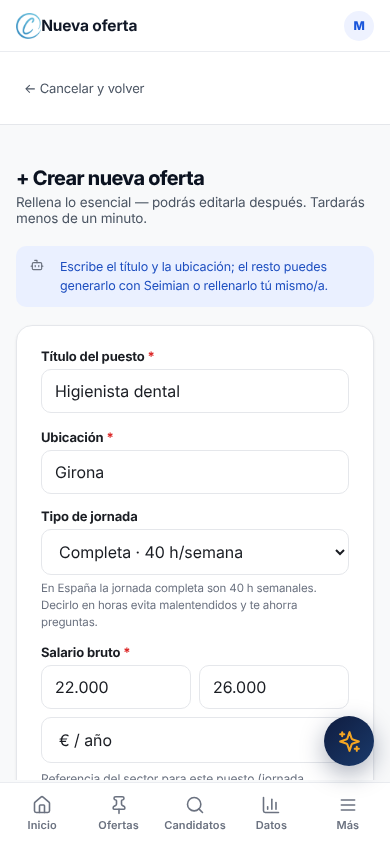
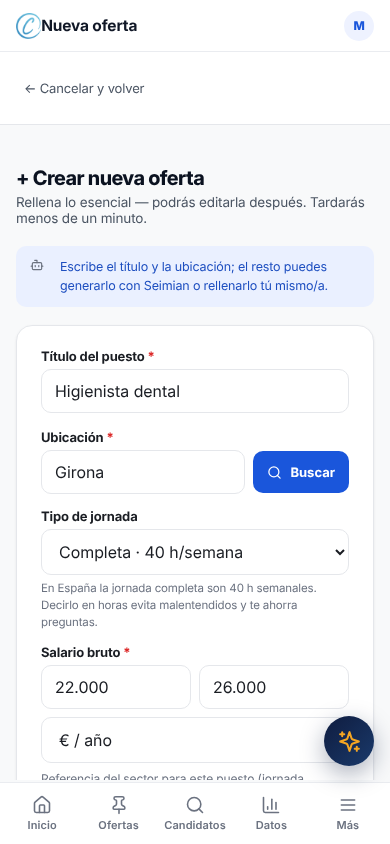
Botón «Buscar» en los tres campos de municipio de la clínica
Dirección de tu clínica (Candidatos), Ubicación (Nueva oferta) y Ciudad
(Mi clínica). «Buscar» y Enter hacen lo mismo: si el municipio existe lo
escriben bien («biure» → «Biure») y lo aplican; si no, avisan debajo con
el mismo texto que el lado profesional.

Arreglo: al cambiar la dirección de la clínica (eligiéndola de la lista,
con Enter o con Buscar) los km de las tarjetas de Candidatos se
recalculan al momento; antes seguían con la dirección anterior.

En Mi clínica, Ciudad ocupa dos tercios de la fila para que quepa el
botón. Prueba nueva en el paso 9, que fallaba antes. 14 capturas
actualizadas (solo cambia el botón).

Claude-Session: https://claude.ai/code/session_01L5qSpH5ECCjMh1xfSpjWDJ

Changed region(s): [[0.6462, 0.5237, 0.8923, 0.5853]]

diff --git a/public/clinica/01f-entrevista-calendario-y-ubicaciones.js b/public/clinica/01f-entrevista-calendario-y-ubicaciones.js
@@ -487,11 +487,29 @@ function initLocationPicker(inputId){
   }
   input.addEventListener('focus', function(){ render(''); dd.style.display='block'; });
   input.addEventListener('input', function(){ render(input.value); dd.style.display='block'; });
+  // Municipio de la clínica o de la oferta: botón «Buscar», como en el lado profesional.
+  // «Buscar» y Enter hacen lo mismo: buscan el municipio (buscarUbicacion).
+  if(soloMuni){
+    const fila = document.createElement('div');
+    fila.style.cssText = 'display:flex;gap:8px;align-items:center;flex:1;min-width:0;';
+    wrap.parentNode.insertBefore(fila, wrap);
+    fila.appendChild(wrap);
+    const b = document.createElement('button');
+    b.type = 'button'; b.className = 'lp-buscar'; b.id = inputId + '-buscar';
+    b.style.cssText = 'flex-shrink:0;display:inline-flex;align-items:center;gap:6px;background:#1A56DB;color:white;border:none;border-radius:10px;padding:0 14px;height:'+(inputId === 'clinic-address-portal' ? '34px' : '40px')+';font-size:13px;font-weight:700;font-family:inherit;cursor:pointer;';
+    b.innerHTML = '<svg xmlns="http://www.w3.org/2000/svg" width="15" height="15" viewBox="0 0 24 24" fill="none" stroke="currentColor" stroke-width="2" stroke-linecap="round" stroke-linejoin="round" aria-hidden="true"><circle cx="11" cy="11" r="8"/><path d="m21 21-4.3-4.3"/></svg>Buscar';
+    // al pulsar, que no se pierda lo escrito al cerrarse la lista
+    b.addEventListener('mousedown', function(e){ e.preventDefault(); });
+    b.addEventListener('click', function(){ dd.style.display = 'none'; buscarUbicacion(inputId); });
+    fila.appendChild(b);
+    input.addEventListener('input', function(){ const n = document.getElementById(inputId + '-nota'); if(n) n.remove(); });
+  }
   // Enter confirma lo escrito aunque no esté en la lista
   input.addEventListener('keydown', function(e){
     if(e.key === 'Enter'){
       e.preventDefault();
       dd.style.display = 'none';
+      if(soloMuni){ buscarUbicacion(inputId); return; }
       input.blur();
       if(inputId === 'location-input-portal' && typeof applyFilters_portal === 'function') applyFilters_portal();
       if(inputId === 'clinic-address-portal' && typeof updateOriginNote === 'function') updateOriginNote();
@@ -500,11 +518,37 @@ function initLocationPicker(inputId){
   });
   document.addEventListener('click', function(e){ if(!wrap.contains(e.target)) dd.style.display='none'; });
 }
-/* Elegir un municipio de la lista; si es la dirección de la clínica, se vuelven a filtrar los candidatos por km (Fase 1: una sola versión) */
+/* Elegir un municipio de la lista; si es la dirección de la clínica, se vuelven a pintar los candidatos con sus km y a filtrar (Fase 1: una sola versión) */
 function pickLocation(inputId, value){
   var r = _pickLocationBase.apply(this, arguments);
-  if(inputId === 'clinic-address-portal' && typeof applyFilters_portal === 'function') applyFilters_portal();
+  var nota = document.getElementById(inputId + '-nota'); if(nota) nota.remove();
+  if(inputId === 'clinic-address-portal'){
+    try{ if(typeof renderPortalReal === 'function') renderPortalReal(); }catch(e){}
+    if(typeof applyFilters_portal === 'function') applyFilters_portal();
+  }
   return r;
+}
+/* «Buscar» (o Enter) en un campo de municipio de la clínica: si el municipio existe, se
+   escribe bien («biure» → «Biure») y se aplica como si se hubiera elegido de la lista;
+   si no, se avisa debajo, con el mismo texto que el lado profesional. */
+function buscarUbicacion(inputId){
+  var input = document.getElementById(inputId); if(!input) return;
+  var t = input.value.trim(), l = null;
+  try{ l = t && window.CGeo ? CGeo.lugar(t) : null; }catch(e){}
+  var vieja = document.getElementById(inputId + '-nota'); if(vieja) vieja.remove();
+  if(!l){
+    var n = document.createElement('div'); n.id = inputId + '-nota'; n.setAttribute('role', 'alert');
+    n.style.cssText = 'font-size:12.5px;color:#B45309;margin-top:6px;line-height:1.45;';
+    n.textContent = t ? 'No encontramos «' + t + '». Escribe el nombre del pueblo o la ciudad y elígelo de la lista.' : 'Escribe el nombre del pueblo o la ciudad.';
+    var fila = input.parentNode && input.parentNode.parentNode;
+    if(fila && fila.parentNode) fila.parentNode.insertBefore(n, fila.nextSibling);
+    try{ input.focus(); }catch(e){}
+    return;
+  }
+  // si se ha escrito solo el municipio, se deja con su nombre bien escrito; una dirección completa se respeta
+  var valor = (window.CGeo && CGeo.norm(t) === CGeo.norm(l.n)) ? l.n : t;
+  pickLocation(inputId, valor);
+  try{ input.blur(); }catch(e){}
 }
 function _pickLocationBase(inputId, value){
   const input = document.getElementById(inputId);

diff --git a/pruebas/e2e/10-recorrido.spec.js b/pruebas/e2e/10-recorrido.spec.js
@@ -526,6 +526,34 @@ test('9. Recomendados, dirección de la clínica, cerrar sesión y volver a entr
   await page.locator(`div[onclick="pickLocation('clinic-address-portal','Salt')"]`).first().click();
   await expect(page.locator('#clinic-address-portal')).toHaveValue('Salt');
   await seVe(page, 'Laura Prueba');
+  const tarjeta = page.locator('#portal-reales-lista .cand-real').locator('visible=true').first();
+  await expect(tarjeta).toContainText('Vive en Salt, al lado de tu clínica');
+  // Botón «Buscar» junto a la dirección: si el municipio no existe, avisa…
+  await page.fill('#clinic-address-portal', 'Biurex');
+  await page.click('#clinic-address-portal-buscar');
+  await expect(page.locator('#clinic-address-portal-nota')).toHaveText('No encontramos «Biurex». Escribe el nombre del pueblo o la ciudad y elígelo de la lista.');
+  // …y con Enter, igual que con el botón: lo escribe bien y los km cambian al momento
+  await page.fill('#clinic-address-portal', 'biure');
+  await page.press('#clinic-address-portal', 'Enter');
+  await expect(page.locator('#clinic-address-portal')).toHaveValue('Biure');
+  await expect(page.locator('#clinic-address-portal-nota')).toHaveCount(0);
+  await expect(tarjeta).toContainText('Vive en Salt, a 41 km');
+  await page.fill('#clinic-address-portal', 'Salt');
+  await page.click('#clinic-address-portal-buscar');
+  await expect(tarjeta).toContainText('Vive en Salt, al lado de tu clínica');
+  // Los otros dos campos de municipio (Nueva oferta y Mi clínica) también tienen «Buscar»
+  for (const [pantalla, id] of [['crear-oferta', 'co-ubicacion'], ['onboarding', 'f-ciutat-onboarding']]) {
+    await page.evaluate((p) => showScreen(p), pantalla);
+    const antes = await page.inputValue('#' + id);
+    await page.fill('#' + id, 'Biurex');
+    await page.click('#' + id + '-buscar');
+    await expect(page.locator('#' + id + '-nota')).toContainText('No encontramos «Biurex»');
+    await page.fill('#' + id, 'biure');
+    await page.press('#' + id, 'Enter');
+    await expect(page.locator('#' + id)).toHaveValue('Biure');
+    await expect(page.locator('#' + id + '-nota')).toHaveCount(0);
+    await page.fill('#' + id, antes);
+  }
 
   // Cerrar sesión (Mi cuenta) y volver a entrar: los datos vuelven de la nube
   await page.evaluate(() => showScreen('mi-cuenta'));

diff --git a/src/estilos/clinica.css b/src/estilos/clinica.css
@@ -670,6 +670,8 @@ __SCREENS_CSS__/* ===== onboarding ===== */
 #screen-onboarding input:focus, #screen-onboarding textarea:focus {outline:none;border-color:#2F6FED;}
 #screen-onboarding textarea {resize:vertical;min-height:70px;}
 #screen-onboarding .row2 {display:grid;grid-template-columns:1fr 1fr;gap:12px;}
+/* Ciudad lleva el botón «Buscar»: más ancho que Nº trabajadores */
+#screen-onboarding .row2.row2-ciudad {grid-template-columns:2fr 1fr;}
 #screen-onboarding .upload-box {
     border:1.5px dashed #E5E7EB;border-radius:10px;
     padding:18px;text-align:center;color:#4B5563;font-size:13px;

diff --git a/index.html b/index.html
@@ -1388,7 +1388,7 @@
       <label>Nombre de la clínica</label>
       <input type="text" id="f-nom-onboarding" placeholder="Ej: Clínica Dental Madrid Centro" oninput="refreshInviteLink()">
     </div>
-    <div class="row2">
+    <div class="row2 row2-ciudad">
       <div class="field">
         <label>Ciudad</label>
         <input type="text" id="f-ciutat-onboarding" placeholder="Escribe o pulsa para elegir…">
